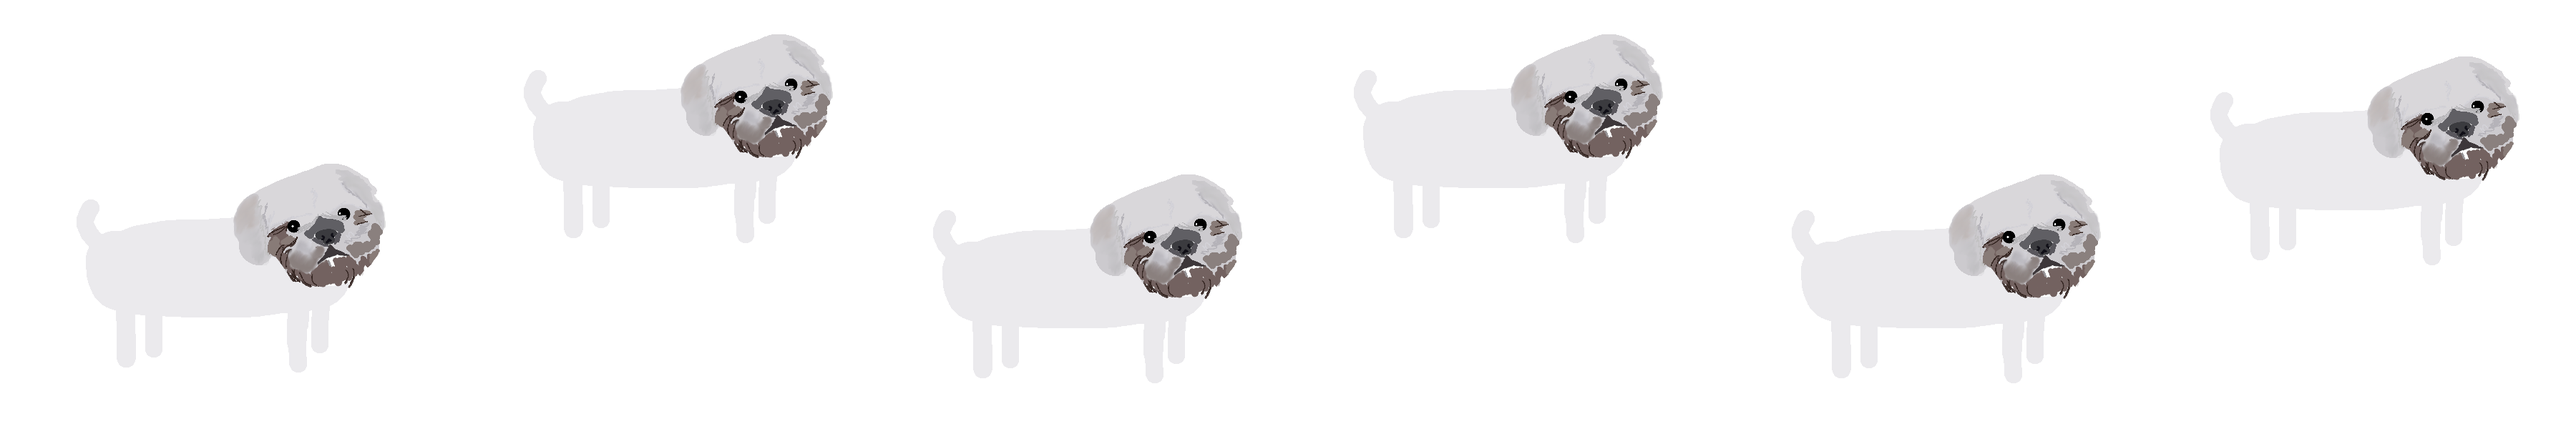
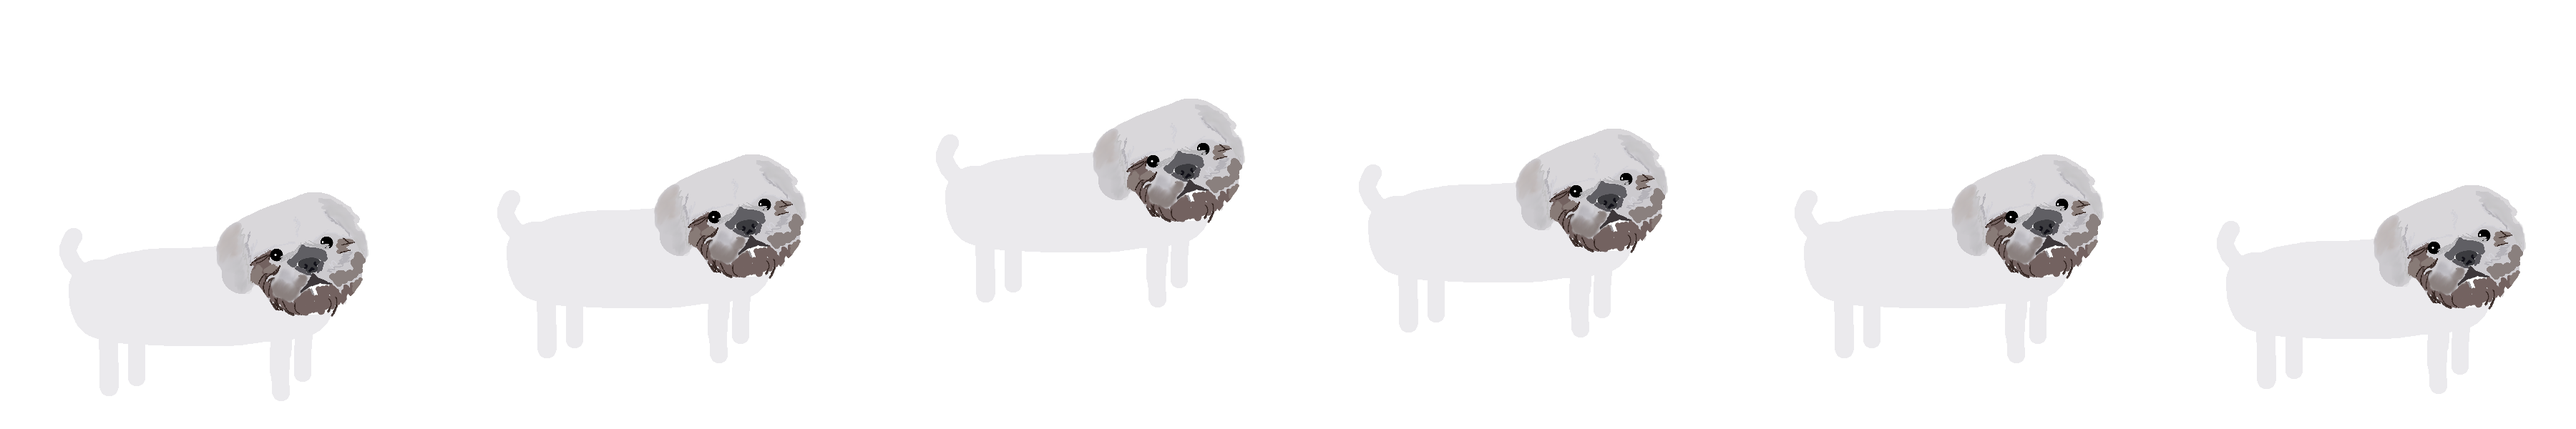
BRUNO

diff --git a/Day3.html b/Day3.html
@@ -6,7 +6,6 @@
     <meta name="viewport" content="width=device-width, initial-scale=1.0">
     <link rel="stylesheet" href="https://cbrammy.github.io/DailyJourney/Days.css">
     <link rel="shortcut icon" type="image/x-icon" href="https://raw.githubusercontent.com/CBrammy/DailyJourney/main/favicon-32x32.png" />
-    <script src="https://cbrammy.github.io/DailyJourney/Days.js"></script>
 
     <title>Day3</title>
 </head>
@@ -15,7 +14,8 @@
 <h2>23/12/2022 </h2>
 <h2></h2>
 
-<canvas id='canvas1'></canvas>
+<canvas id="canvas1"></canvas>
+<script src="https://cbrammy.github.io/DailyJourney/Days.js"></script>
 
 </body>
 </html>

diff --git a/Days.js b/Days.js
@@ -28,7 +28,7 @@ function myFunction() {
   let frameX = 0;
   let frameY = 0;
   let gameFrame = 0;
-  const staggerFrames = 5;
+  const staggerFrames = 6;
 
   function animate(){
     ctx.clearRect(0, 0, CANVAS_WIDTH, CANVAS_HEIGHT);
